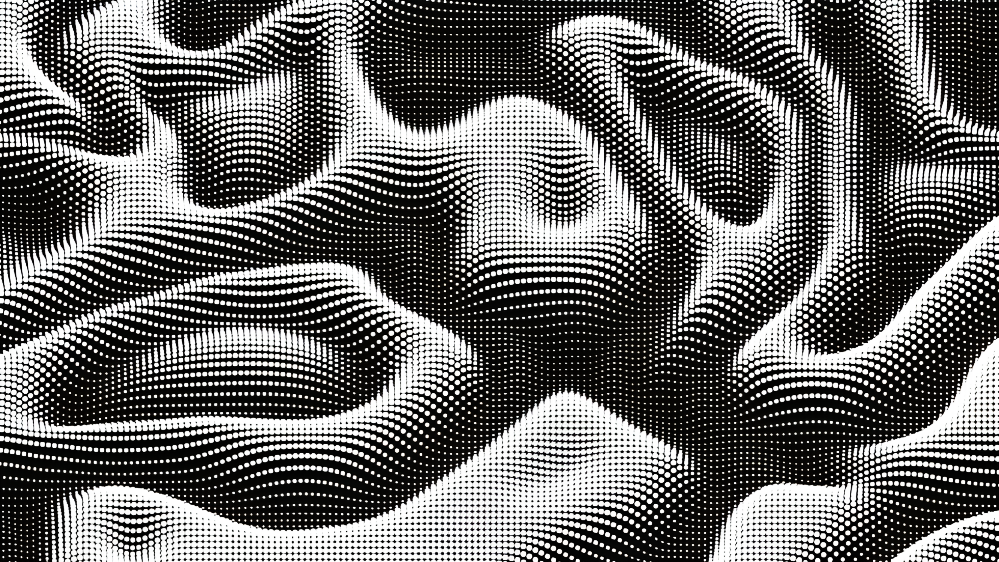
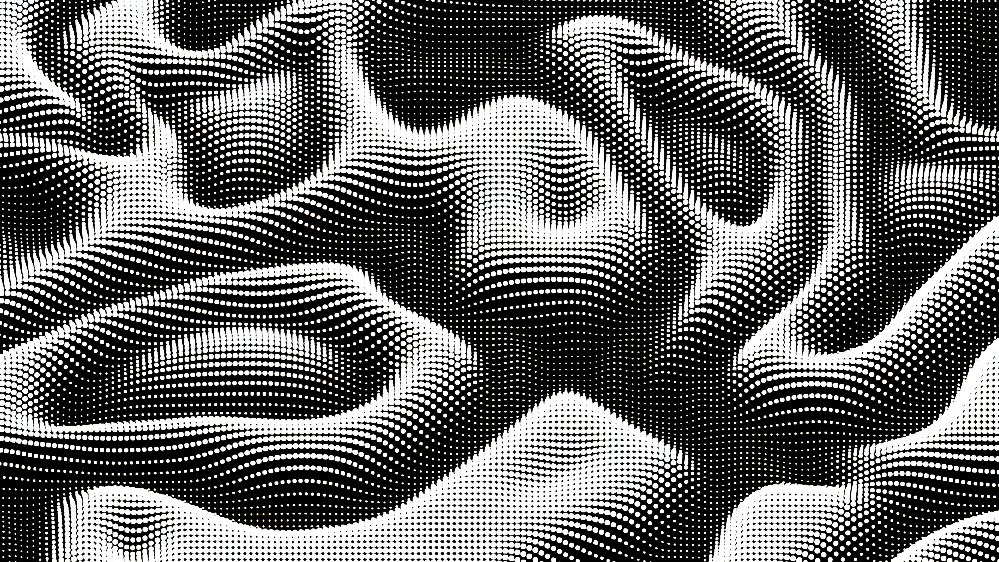
INCREASED BACKGROUND IMG CONTRAST

diff --git a/DExplainations.css b/DExplainations.css
@@ -18,7 +18,7 @@ align-items: center;
 padding-top: 20px; /* Add 30 pixels of padding on the top for the container */
 padding-left: 30px; /* Add 30 pixels of padding on the left for the container */
 padding-right: 30px; /* Add 30 pixels of padding on the right for the container */
-background: url(Images/bckrng1.png);
+background: url(Images/bckrng8.png);
 background-repeat: no-repeat; 
 background-size: cover;
 background-position: center;

diff --git a/comments.css b/comments.css
@@ -18,7 +18,7 @@ align-items: center;
 padding-top: 20px; /* Add 30 pixels of padding on the top for the container */
 padding-left: 30px; /* Add 30 pixels of padding on the left for the container */
 padding-right: 30px; /* Add 30 pixels of padding on the right for the container */
-background: url(Images/bckrng1.png);
+background: url(Images/bckrng9.png);
 background-repeat: no-repeat; 
 background-size: cover;
 background-position: center;

diff --git a/journals.css b/journals.css
@@ -18,7 +18,7 @@ align-items: center;
 padding-top: 20px; /* Add 30 pixels of padding on the top for the container */
 padding-left: 30px; /* Add 30 pixels of padding on the left for the container */
 padding-right: 30px; /* Add 30 pixels of padding on the right for the container */
-background: url(Images/bckrng1.png);
+background: url(Images/bckrng7.png);
 background-repeat: no-repeat; 
 background-size: cover;
 background-position: center;
